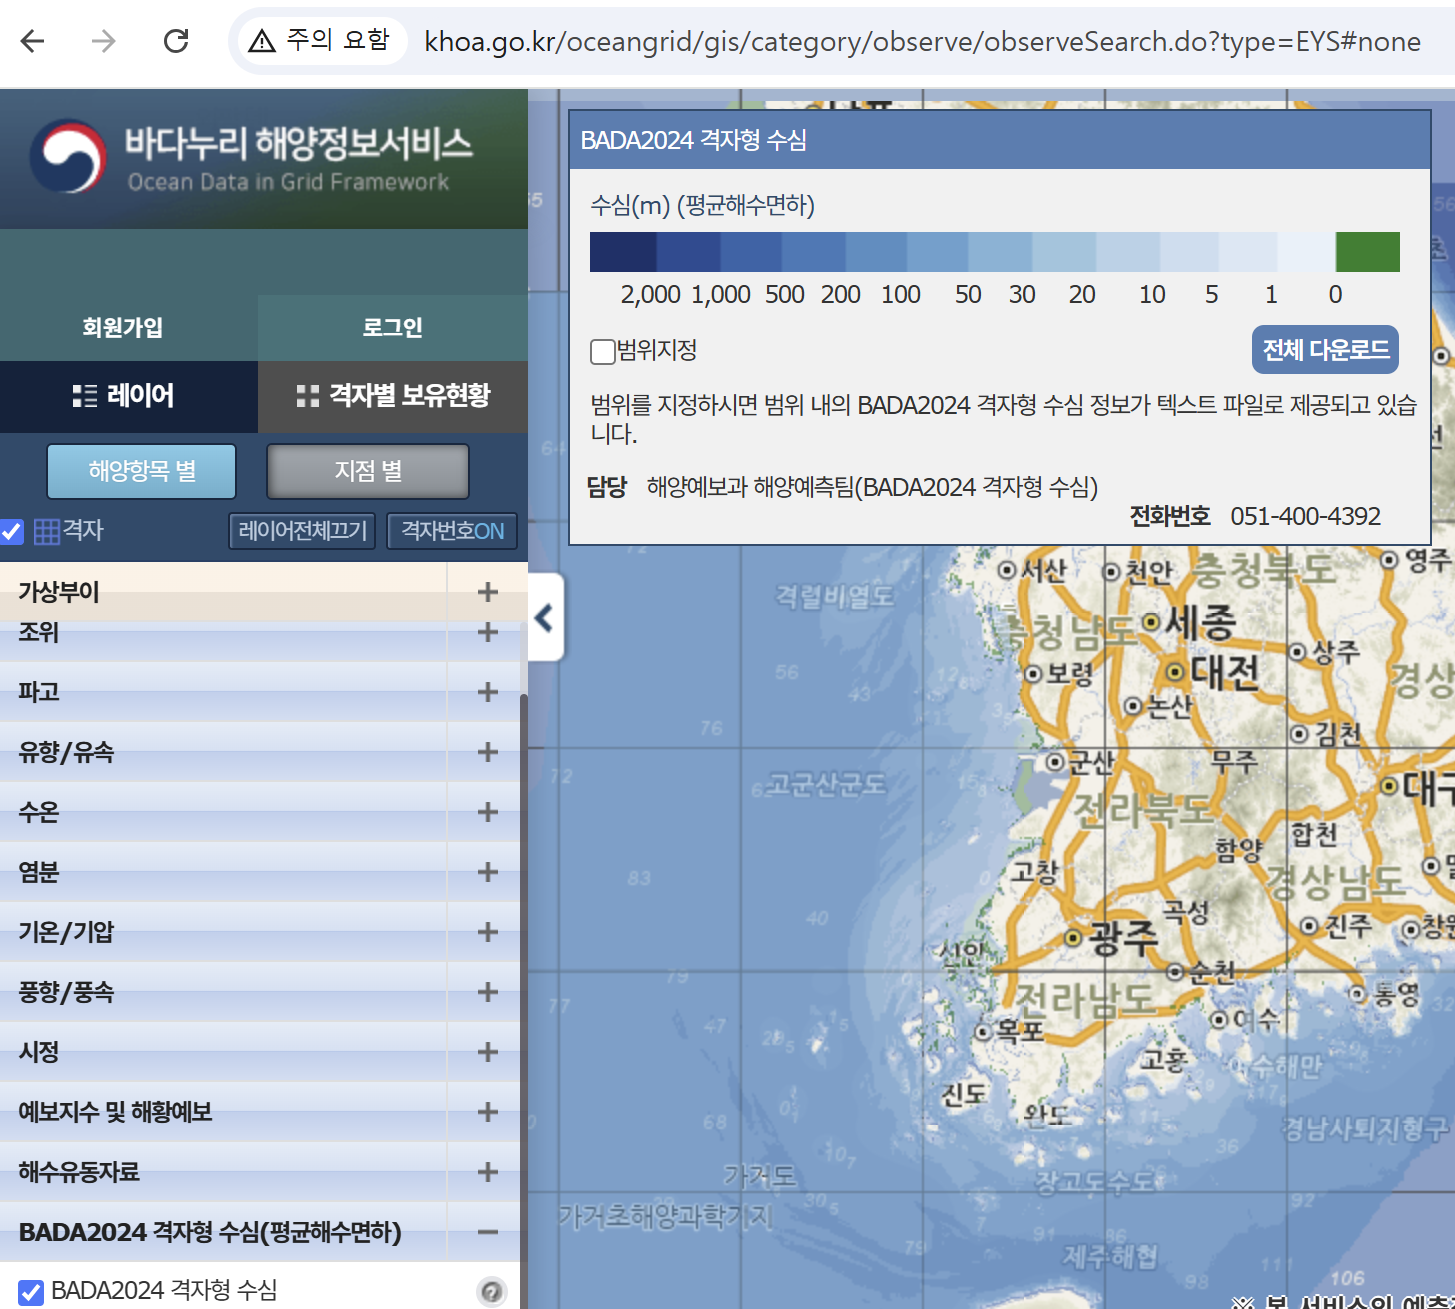
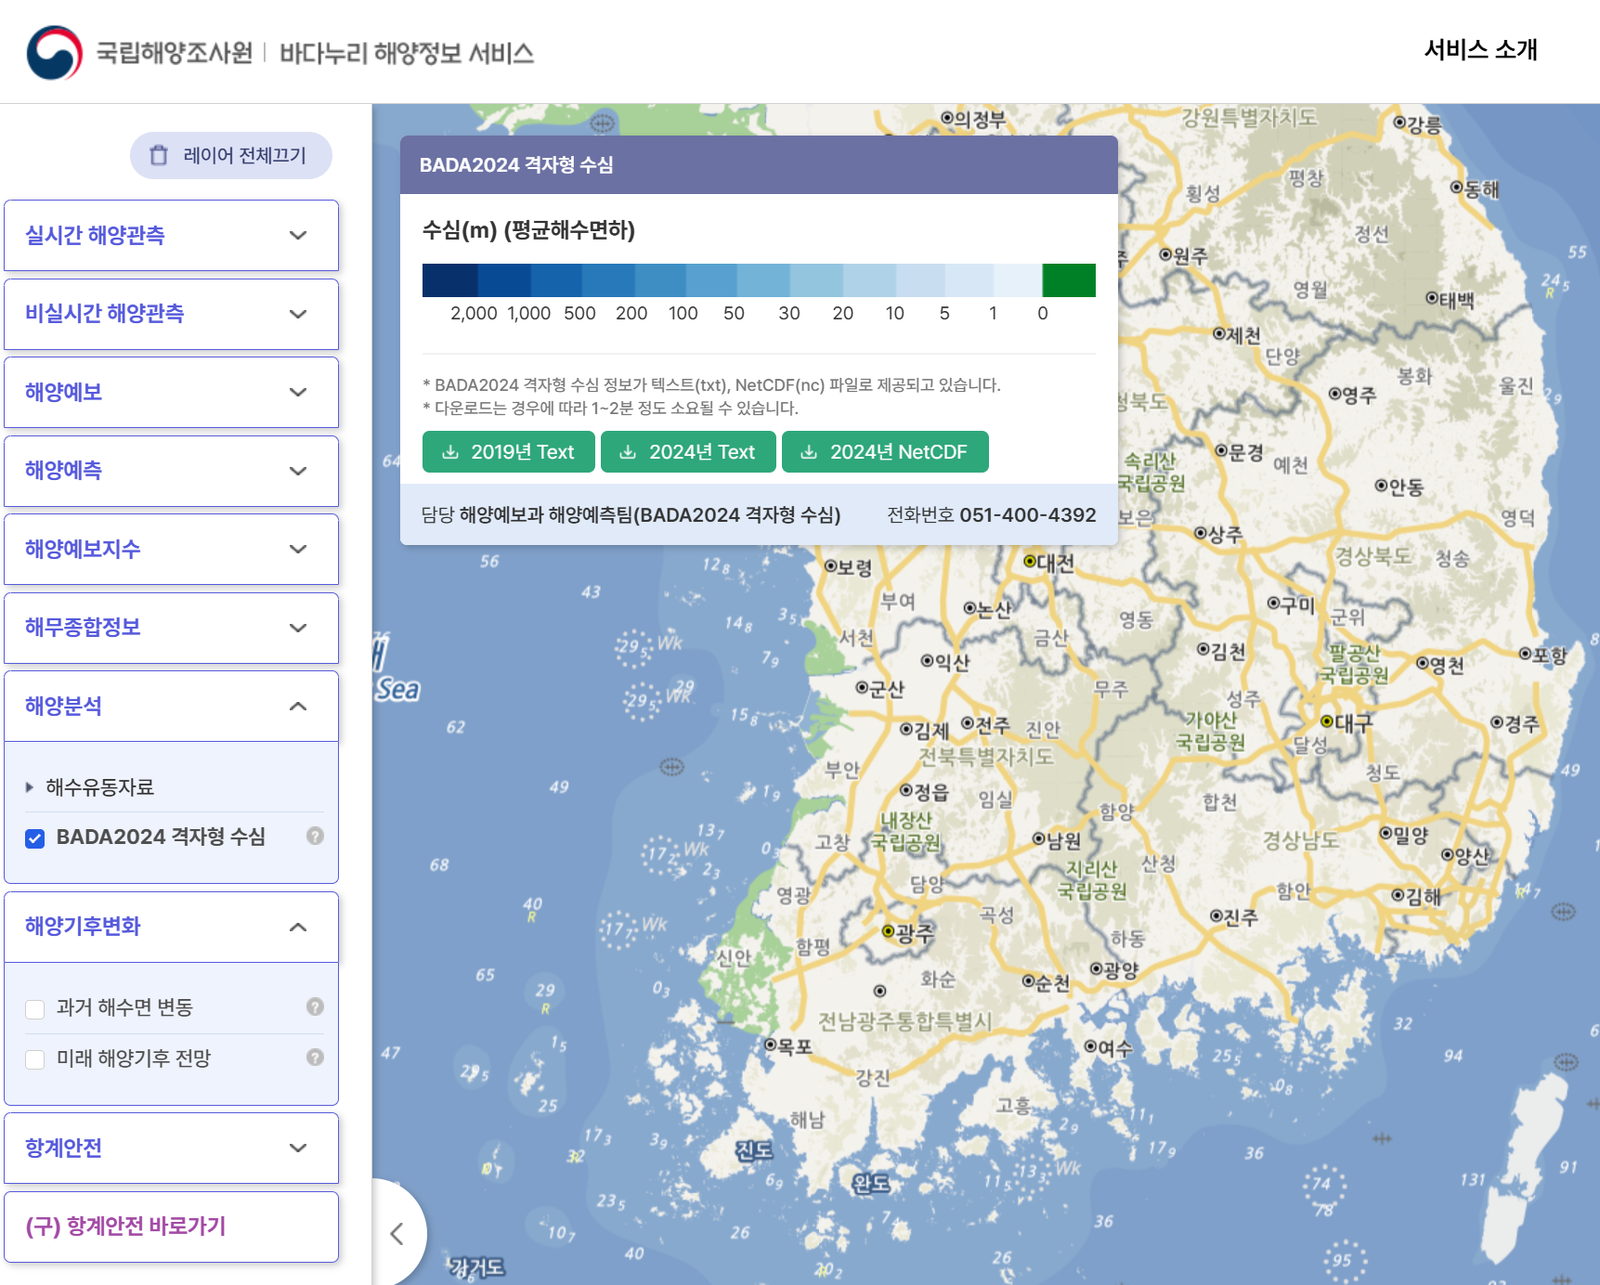
Update Bathymetry: GEBCO text, S2Shores MATLAB link, new BADA link and screenshot

diff --git a/docs/bathymetry/bathymetry.md b/docs/bathymetry/bathymetry.md
@@ -15,7 +15,7 @@ Global and regional bathymetry datasets, with code to download and process them.
 
     ---
 
-    Updated regularly. **The latest version is 2024.**
+    Global gridded bathymetry, updated with a new release every year
 
     [:octicons-download-24: GEBCO Gridded Bathymetry Data Download](https://download.gebco.net/)
 
@@ -55,7 +55,8 @@ Global and regional bathymetry datasets, with code to download and process them.
 
     Global coastal bathymetry from Sentinel-2 wave inversion. AVISO+ account required
 
-    [:octicons-arrow-right-24: Data access & references](#s2shores)
+    [:octicons-arrow-right-24: Data access & references](#s2shores)<br>
+    [:octicons-download-24: MATLAB download script](#matlab-download-script)
 
 </div>
 
@@ -99,8 +100,7 @@ If you use the toolbox, a **rating under Review** on the MathWorks page would be
 
     Bathymetry appears to be processed only for the seas around Korea, presumably because of territorial boundary issues
 
-    [:octicons-link-external-24: KHOA Badanuri: bathymetry](http://www.khoa.go.kr/oceangrid/gis/category/observe/observeSearch.do?type=EYS#none)<br>
-    [:octicons-arrow-right-24: Reading code (MATLAB)](#khoa-bada)<br>
+    [:octicons-link-external-24: KHOA Badanuri: bathymetry](https://khoa.go.kr/oceandata/oceaninfo/map.do)<br>
     [:octicons-book-24: Reference: Bathymetry data for ocean numerical models from survey data (JKSCOE, 2019, in Korean)](https://doi.org/10.9765/KSCOE.2019.31.3.146)
 
 -   **JODC** · 500 m
@@ -137,22 +137,9 @@ If you use the toolbox, a **rating under Review** on the MathWorks page would be
 </figure>
 
 <figure markdown="span">
-  ![KHOA bathymetry, screen 2](../assets/bathymetry/bathymetry/khoa_bathymetry_2.png){ loading=lazy }
-  <figcaption>KHOA bathymetry, screen 2</figcaption>
+  ![Badanuri ocean information service: BADA2024 gridded bathymetry (TXT and NetCDF download)](../assets/bathymetry/bathymetry/khoa_bathymetry_2.png){ loading=lazy }
+  <figcaption>Badanuri ocean information service: BADA2024 gridded bathymetry (TXT and NetCDF download)</figcaption>
 </figure>
-
-??? example "Read BADA bathymetry (xyz) and grid it"
-
-    ```matlab title="Read BADA bathymetry (xyz) and grid it"
-    clc; clear; close all; % reset
-    bathy = importdata("C:\Users\User\OneDrive\문서\MATLAB\BADA Ver.1.txt"); % load
-    bedlat0 = bathy.data(:,1); bedlon0 = bathy.data(:,2); bed0 = bathy.data(:,3);
-
-    lonlim = [129 133];   latlim = [35 38.5]; % set longitude, latitude range for interpolation
-    bed = griddata(bedlon0, bedlat0, bed0, lonlim(1):0.01:lonlim(end),(latlim(1):0.01:latlim(end))'); bed=bed';
-    bed=bed*(-1); bedlon = lonlim(1):0.01:lonlim(end); bedlat = latlim(1):0.01:latlim(end);
-    save bathy_bada.mat bedlon bedlat bed; % save
-    ```
 
 ## Model grid: HYCOM 3.1 topo
 

diff --git a/docs/bathymetry/bathymetry.ko.md b/docs/bathymetry/bathymetry.ko.md
@@ -15,7 +15,7 @@
 
     ---
 
-    꾸준히 버전을 업데이트하여 제공. **가장 최신 버전은 2024입니다.**
+    매년 새 버전으로 업데이트되는 전 지구 수심 격자 자료
 
     [:octicons-download-24: GEBCO Gridded Bathymetry Data Download](https://download.gebco.net/)
 
@@ -55,7 +55,8 @@
 
     Sentinel-2 wave inversion 기반 전 지구 연안 수심. AVISO+ 계정 필요
 
-    [:octicons-arrow-right-24: Data access & references](#s2shores)
+    [:octicons-arrow-right-24: Data access & references](#s2shores)<br>
+    [:octicons-download-24: MATLAB 다운로드 코드](#matlab-download-script)
 
 </div>
 
@@ -99,8 +100,7 @@ ETOPO 2022, SRTM15+, S2Shores는 아래 MathWorks 툴박스를 설치하고 그 
 
     영해 경계 문제 때문에 대한민국 주변 해역에 대해서만 수심 자료를 처리한 것으로 보임
 
-    [:octicons-link-external-24: KHOA 바다누리: 수심 자료](http://www.khoa.go.kr/oceangrid/gis/category/observe/observeSearch.do?type=EYS#none)<br>
-    [:octicons-arrow-right-24: 읽기 코드 (MATLAB)](#khoa-bada)<br>
+    [:octicons-link-external-24: KHOA 바다누리: 수심 자료](https://khoa.go.kr/oceandata/oceaninfo/map.do)<br>
     [:octicons-book-24: 참고: 수심측량자료를 사용한 해양수치모델 전용 수심 데이터 제작 (한국해안·해양공학회논문집, 2019)](https://doi.org/10.9765/KSCOE.2019.31.3.146)
 
 -   **JODC** · 500 m
@@ -137,22 +137,9 @@ ETOPO 2022, SRTM15+, S2Shores는 아래 MathWorks 툴박스를 설치하고 그 
 </figure>
 
 <figure markdown="span">
-  ![KHOA 수심 자료 화면 2](../assets/bathymetry/bathymetry/khoa_bathymetry_2.png){ loading=lazy }
-  <figcaption>KHOA 수심 자료 화면 2</figcaption>
+  ![바다누리 해양정보 서비스: BADA2024 격자형 수심 (TXT, NetCDF 다운로드)](../assets/bathymetry/bathymetry/khoa_bathymetry_2.png){ loading=lazy }
+  <figcaption>바다누리 해양정보 서비스: BADA2024 격자형 수심 (TXT, NetCDF 다운로드)</figcaption>
 </figure>
-
-??? example "Read BADA bathymetry (xyz) and grid it"
-
-    ```matlab title="Read BADA bathymetry (xyz) and grid it"
-    clc; clear; close all; % reset
-    bathy = importdata("C:\Users\User\OneDrive\문서\MATLAB\BADA Ver.1.txt"); % load
-    bedlat0 = bathy.data(:,1); bedlon0 = bathy.data(:,2); bed0 = bathy.data(:,3);
-
-    lonlim = [129 133];   latlim = [35 38.5]; % set longitude, latitude range for interpolation
-    bed = griddata(bedlon0, bedlat0, bed0, lonlim(1):0.01:lonlim(end),(latlim(1):0.01:latlim(end))'); bed=bed';
-    bed=bed*(-1); bedlon = lonlim(1):0.01:lonlim(end); bedlat = latlim(1):0.01:latlim(end);
-    save bathy_bada.mat bedlon bedlat bed; % save
-    ```
 
 ## 모델 격자: HYCOM 3.1 topo { #model-grid-hycom-31-topo }
 
